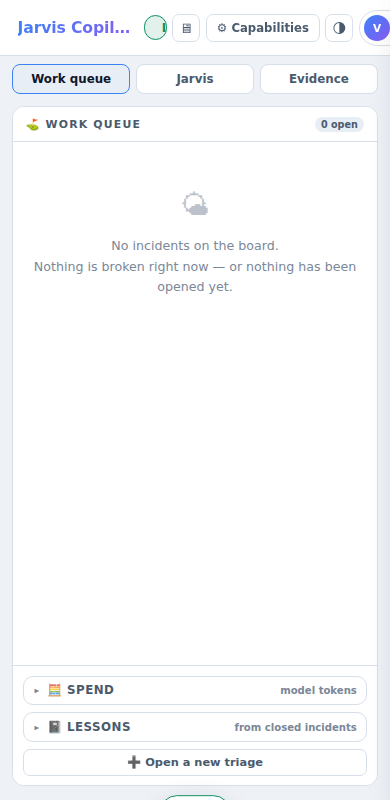
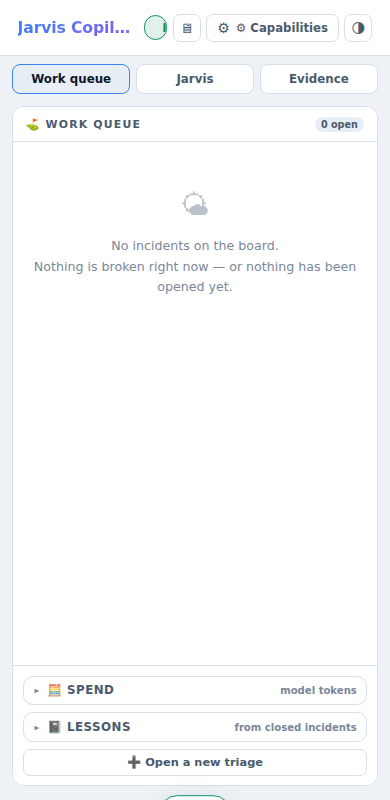
Polish P1: remove the canned @mention acknowledgement and four dead Jarvis simulators (Law 1); watcher agent_status shape; badge; phone-width header
- server.js: handleMention no longer posts a phrase-table 'On it — querying…'
  line on a random timer (it could land after the real answer); the agent's
  real read is the only response. generateMentionResponse deleted.
  simulateStandup / simulateSquadStatus / simulateWeeklyReport / showJarvisHelp
  deleted (no call sites since Class 1). STATUS.json watcher broadcasts the
  transparency-contract agent_status shape (agentId/status/note were undefined).
- desk.html: badge 'Cockpit' (no drifting wave number); at ≤760 the header's
  right group shrinks instead of widening the page, at ≤480 the name tag is the
  avatar and Capabilities its gear; the closed drawer is visibility:hidden.
- sources/polish.p1.test.js (17). Browser: no horizontal overflow at 390/480/
  760/1440 with the drawer closed and open; CW-12 regression 37/37; zero canned
  lines on the wire.

Claude-Session: https://claude.ai/code/session_014ZjE67CB2m32VWwJETiM5q

Changed region(s): [[0.5538, 0.0, 1.0, 0.0625], [0.4615, 0.0312, 0.4923, 0.0625]]

diff --git a/server.js b/server.js
@@ -1775,85 +1775,12 @@ function handleMention(fromAgentId, toAgentId, message) {
   // Log to activity
   appendToActivityLog(`[${timestamp}] [${fromAgent.name}] @mentioned ${toAgent.name}: ${message}\n`);
 
-  // Simulate target agent acknowledging (1-2s delay)
-  const responseDelay = 1000 + Math.random() * 1000;
-  setTimeout(() => {
-    const response = generateMentionResponse(toAgentId, fromAgentId, message);
-    broadcast('chat_message', {
-      type: 'incoming',
-      agent: toAgentId,
-      agentName: toAgent.name,
-      agentIcon: toAgent.icon,
-      text: response,
-      timestamp: new Date().toISOString()
-    });
-    // handleMention is only ever reached from an operator-typed command, so the
-    // responding agent answered the operator's @mention — not fromAgent, which is
-    // merely the operator's currently-focused chat. Name the true relationship.
-    appendToActivityLog(`[${new Date().toISOString()}] [${toAgent.name}] Responded to the operator's @mention\n`);
-  }, responseDelay);
-}
-
-// Generate contextual response based on agent specialty
-function generateMentionResponse(responderId, fromId, message) {
-  const responder = agents[responderId];
-  const from = agents[fromId];
-  const msg = message.toLowerCase();
-
-  // An acknowledgement may only promise what the agent can actually do, which
-  // is read its own live source (Catalyst Center, the ACI fabric, or vManage).
-  // Never name a tool, feed or capability that does not exist here — a
-  // fabricated capability is as dishonest as a fabricated reading.
-  const responses = {
-    'netops': [
-      `@${from.name} Roger that — reading live device inventory from Catalyst Center.`,
-      `@${from.name} On it — checking current device reachability on Catalyst Center.`,
-      `@${from.name} Acknowledged. Pulling the live device list and health score.`
-    ],
-    // No backend wired up — say so rather than promise a report we cannot make.
-    'sentinel': [
-      `@${from.name} I'm not connected to a CVE feed yet — no credentials, so I have nothing real to report.`
-    ],
-    'firewall-pro': [
-      `@${from.name} I'm not connected to a firewall source yet — no credentials, so I have nothing real to report.`
-    ],
-    'loadbal-pro': [
-      `@${from.name} I'm not connected to a load balancer — F5 has no Cisco DevNet sandbox. Nothing real to report.`
-    ],
-    'router-expert': [
-      `@${from.name} On it — querying the live ACI fabric / SD-WAN overlay.`
-    ],
-    'monitor-eye': [
-      `@${from.name} On it — reading the live health score and open issues from Catalyst Center.`,
-      `@${from.name} Acknowledged. Checking current health and SD-WAN alarm counts.`,
-      `@${from.name} Roger — pulling what my live sources report right now.`
-    ],
-    // No backup store, no compliance baseline and no config-diff engine exists —
-    // this agent can only read running software versions and reachability.
-    'config-keeper': [
-      `@${from.name} On it — reading the running software versions from Catalyst Center.`,
-      `@${from.name} Acknowledged. Checking what versions the devices actually report.`,
-      `@${from.name} Roger — I hold no backups or baselines, but I can read current state.`
-    ],
-    'incident-handler': [
-      `@${from.name} On it — reading open issues from Catalyst Center and faults from the ACI fabric.`,
-      `@${from.name} Acknowledged. Checking what is currently open on my live sources.`,
-      `@${from.name} Roger — pulling the current issue and fault list.`
-    ],
-    'doc-writer': [
-      `@${from.name} On it — reading the connected sandboxes so anything I write is backed by live data.`,
-      `@${from.name} Acknowledged. Checking what the live sources can actually confirm.`,
-      `@${from.name} Roger — gathering current readings from the connected sources.`
-    ],
-    'jarvis': [
-      `@${from.name} Understood. I'll coordinate the team on this.`,
-      `@${from.name} Copy. Triaging and assigning as needed.`,
-      `@${from.name} Acknowledged. Monitoring progress.`
-    ]
-  };
-
-  const agentResponses = responses[responderId] || [`@${from.name} Acknowledged. Working on it.`];
-  return agentResponses[Math.floor(Math.random() * agentResponses.length)];
+  // Polish P1 (Law 1, 2026-09-05): the canned "On it — querying…" acknowledgement
+  // that used to be posted here on a random 1–2 s timer is GONE. It was a
+  // deterministic phrase table pretending to be the agent, it could land AFTER
+  // the agent's real answer, and it said nothing the real answer did not. The
+  // @mention's only response is now the agent's real read (simulateAgentAction,
+  // scheduled by the caller) — or its honest "not connected".
 }
 
 // ============ AGENT NLU — per-agent intent detection ============
@@ -2151,174 +2078,11 @@ function jarvisCapabilityScreen(command) {
   return false;
 }
 
-// Jarvis: Daily standup — collect status from all agents
-function simulateStandup(agentId) {
-  const jarvis = agents[agentId];
-  updateAgentStatus(agentId, 'active', 'Running daily standup');
-  addTaskToBoard('inProgress', { title: 'Daily Standup', agent: 'Jarvis' });
-
-  const managedAgents = jarvis.manages || [];
-
-  setTimeout(() => {
-    broadcast('chat_message', {
-      type: 'incoming', agent: agentId, agentName: jarvis.name, agentIcon: jarvis.icon,
-      text: `📢 **DAILY STANDUP — ${new Date().toLocaleDateString()}**\nCollecting status from ${managedAgents.length} agents...`,
-      timestamp: new Date().toISOString()
-    });
-    appendToActivityLog(`[${new Date().toISOString()}] [Jarvis] Daily standup initiated\n`);
-  }, 500);
-
-  let delay = 1500;
-  const statusLines = [];
-
-  managedAgents.forEach((id) => {
-    const a = agents[id];
-    setTimeout(() => {
-      const statusIcon = a ? (a.status === 'active' ? '🟢' : a.status === 'idle' ? '🟡' : '🔴') : '⚫';
-      const name = a ? a.name : id;
-      const icon = a ? a.icon : '🤖';
-      const action = a ? a.lastAction : 'Not deployed';
-      const line = `${statusIcon} ${icon} **${name}** — ${action}`;
-      statusLines.push(line);
-
-      broadcast('chat_message', {
-        type: 'incoming', agent: agentId, agentName: jarvis.name, agentIcon: jarvis.icon,
-        text: `${statusIcon} ${icon} ${name}: ${action}`,
-        timestamp: new Date().toISOString()
-      });
-    }, delay);
-    delay += 800;
-  });
-
-  setTimeout(() => {
-    const activeCount = managedAgents.filter(id => agents[id]?.status === 'active').length;
-    const idleCount = managedAgents.filter(id => agents[id]?.status === 'idle').length;
-    const offlineCount = managedAgents.length - activeCount - idleCount;
-
-    broadcast('chat_message', {
-      type: 'incoming', agent: agentId, agentName: jarvis.name, agentIcon: jarvis.icon,
-      text: `📊 **Standup Summary**\n🟢 Active: ${activeCount} | 🟡 Idle: ${idleCount} | 🔴 Offline: ${offlineCount}\n✅ Standup complete. All agents accounted for.`,
-      timestamp: new Date().toISOString()
-    });
-
-    appendToActivityLog(`[${new Date().toISOString()}] [Jarvis] Standup complete — Active: ${activeCount}, Idle: ${idleCount}, Offline: ${offlineCount}\n`);
-    updateAgentStatus(agentId, 'active', 'Standup complete — monitoring squad');
-    moveTaskOnBoard('Daily Standup', 'inProgress', 'done');
-  }, delay + 500);
-}
-
-// Jarvis: Squad status / roll call
-function simulateSquadStatus(agentId) {
-  const jarvis = agents[agentId];
-  updateAgentStatus(agentId, 'active', 'Checking squad status');
-
-  setTimeout(() => {
-    const managedAgents = jarvis.manages || [];
-    const lines = managedAgents.map(id => {
-      const a = agents[id];
-      if (!a) return `⚫ 🤖 ${id} — Not deployed`;
-      const statusIcon = a.status === 'active' ? '🟢' : a.status === 'idle' ? '🟡' : '🔴';
-      return `${statusIcon} ${a.icon} ${a.name} — ${a.lastAction}`;
-    });
-
-    broadcast('chat_message', {
-      type: 'incoming', agent: agentId, agentName: jarvis.name, agentIcon: jarvis.icon,
-      text: `🎖 **Squad Status Report**\n━━━━━━━━━━━━━━━━━━━━\n${lines.join('\n')}\n━━━━━━━━━━━━━━━━━━━━\nTotal: ${managedAgents.length} agents`,
-      timestamp: new Date().toISOString()
-    });
-    updateAgentStatus(agentId, 'active', 'Monitoring squad');
-  }, 1000);
-}
-
-// Jarvis: Weekly summary report
-function simulateWeeklyReport(agentId) {
-  const jarvis = agents[agentId];
-  updateAgentStatus(agentId, 'active', 'Generating weekly report');
-  addTaskToBoard('inProgress', { title: 'Weekly Summary Report', agent: 'Jarvis' });
-
-  const steps = [
-    { delay: 500, msg: '📊 Generating weekly squad report...' },
-    { delay: 1500, msg: '📁 Scanning task history...' },
-    { delay: 2500, msg: '📈 Analyzing agent performance...' },
-  ];
-
-  steps.forEach(step => {
-    setTimeout(() => {
-      broadcast('chat_message', {
-        type: 'incoming', agent: agentId, agentName: jarvis.name, agentIcon: jarvis.icon,
-        text: step.msg,
-        timestamp: new Date().toISOString()
-      });
-    }, step.delay);
-  });
-
-  setTimeout(() => {
-    const tasks = getTasks();
-    const doneCount = (tasks.done || []).length;
-    const inProgressCount = (tasks.inProgress || []).length;
-    const inboxCount = (tasks.inbox || []).length;
-    const managedAgents = jarvis.manages || [];
-    const activeCount = managedAgents.filter(id => agents[id]?.status === 'active').length;
-
-    const reportContent = `# Weekly Squad Report
-**Generated:** ${new Date().toISOString()}
-**Squad Lead:** Jarvis 🎖
-
-## Squad Overview
-- Total Agents: ${managedAgents.length}
-- Active: ${activeCount}
-- Idle: ${managedAgents.length - activeCount}
-
-## Task Summary
-- Completed: ${doneCount}
-- In Progress: ${inProgressCount}
-- Inbox: ${inboxCount}
-
-## Agent Status
-${managedAgents.map(id => {
-  const a = agents[id];
-  if (!a) return `| ${id} | Not Deployed | - |`;
-  return `| ${a.icon} ${a.name} | ${a.status} | ${a.lastAction} |`;
-}).join('\n')}
-
-## Recommendations
-- ${inboxCount > 0 ? `${inboxCount} tasks pending triage in INBOX` : 'All tasks triaged'}
-- ${activeCount === 0 ? 'No agents currently active — consider scheduling tasks' : `${activeCount} agents actively working`}
-
----
-*Report generated by Jarvis, Network Squad Lead*
-`;
-
-    const reportName = `weekly-report-${Date.now()}.md`;
-    const reportPath = path.join(SQUAD_ROOT, 'agents', 'jarvis', reportName);
-    // Runs inside a timer — a raw write here would throw where nothing can
-    // catch it and would silently abandon the rest of the report.
-    safeWrite(reportPath, reportContent, `weekly report ${reportName}`);
-
-    broadcast('chat_message', {
-      type: 'incoming', agent: agentId, agentName: jarvis.name, agentIcon: jarvis.icon,
-      text: `✅ **Weekly Report Complete**\n📋 Tasks — Done: ${doneCount} | Active: ${inProgressCount} | Inbox: ${inboxCount}\n👥 Squad — ${managedAgents.length} agents, ${activeCount} active\n📁 Report saved: ${reportName}`,
-      timestamp: new Date().toISOString()
-    });
-
-    appendToActivityLog(`[${new Date().toISOString()}] [Jarvis] Weekly report generated: ${reportName}\n`);
-    updateAgentStatus(agentId, 'active', `Weekly report: ${reportName}`);
-    moveTaskOnBoard('Weekly Summary Report', 'inProgress', 'done');
-  }, 4000);
-}
-
-// Jarvis help
-function showJarvisHelp(agentId) {
-  const jarvis = agents[agentId];
-  setTimeout(() => {
-    broadcast('chat_message', {
-      type: 'incoming', agent: agentId, agentName: jarvis.name, agentIcon: jarvis.icon,
-      text: `🎖 **Jarvis — Squad Lead (Natural Language)**\n━━━━━━━━━━━━━━━━━━━━\nJust talk to me naturally. I understand intent, not just commands.\n\n📢 **Standup** — "check in with the team", "morning briefing", "how's everyone doing?"\n👥 **Squad status** — "who's online?", "show me all agents", "roll call"\n🔍 **Triage/assign** — "we need someone to look at the BGP issue", "assign the firewall audit"\n📊 **Reports** — "give me a summary of the week", "what have we completed?"\n🚨 **Escalate** — "the router is down", "we have a critical outage", "BGP is flapping"\n💬 **Anything else** — just describe the situation and I'll figure out the right action\n━━━━━━━━━━━━━━━━━━━━\nManaging ${(jarvis.manages || []).length} agents`,
-      timestamp: new Date().toISOString()
-    });
-    updateAgentStatus(agentId, 'active', 'Help displayed');
-  }, 500);
-}
+// Polish P1 (2026-09-05): simulateStandup / simulateSquadStatus / simulateWeeklyReport /
+// showJarvisHelp were removed here. They had no call sites since the Class 1
+// fix (2026-08-18) took the phrase-table front door away — dead deterministic
+// answering code, the exact class Law 1 forbids. Standup / roll-call / report
+// come back, if ever, as planner-invoked functions built on real reads.
 
 // Update agent status and broadcast
 function updateAgentStatus(agentId, status, lastAction) {
@@ -3668,7 +3432,9 @@ function setupFileWatcher() {
       const agentId = AGENT_IDS.find(id => filePath.includes(path.sep + id + path.sep) || filePath.includes('/' + id + '/'));
       if (agentId && agents[agentId]) {
         loadAgentStatus(agentId);
-        broadcast('agent_status', agents[agentId]);
+        // Same shape as updateAgentStatus (transparency contract): a client
+        // reading `agentId` / `status` / `note` used to get undefined here.
+        broadcast('agent_status', { ...agents[agentId], agentId, status: agents[agentId].status, note: agents[agentId].lastAction || null });
       }
     } else if (filename === 'ALERTS.md') {
       broadcast('alerts_updated', { timestamp: new Date().toISOString() });

diff --git a/sources/polish.p1.test.js b/sources/polish.p1.test.js
@@ -1,0 +1,62 @@
+// polish.p1.test.js — Polish wave P1 (2026-09-05): Law-1 leftovers and small
+// honesty/UX fixes found by the CW-12 review.
+//
+// Plain words, what this pins:
+//   1. The canned "@Name On it — querying…" acknowledgement is GONE. It was a
+//      phrase table pretending to be the agent, posted on a random timer, and it
+//      could land after the real answer. The only response to an @mention is
+//      the agent's real read (or its honest "not connected").
+//   2. The four dead Jarvis simulators (standup / squad status / weekly report /
+//      the canned help card) are gone — they had no call sites and were
+//      deterministic answering code, the class Law 1 forbids.
+//   3. The STATUS.json file-watcher broadcasts the same agent_status shape as
+//      updateAgentStatus (agentId / status / note were undefined before).
+//   4. The desk header badge no longer claims a wave number that drifts.
+//   5. At phone width the header can never make the page wider than the screen,
+//      and the closed capabilities drawer is hidden, not just off-canvas.
+
+const fs = require('fs');
+const path = require('path');
+
+let passed = 0, failed = 0;
+function ok(name, cond) {
+  if (cond) { passed++; console.log(`  ok   ${name}`); }
+  else { failed++; console.log(`  FAIL ${name}`); }
+}
+const read = (f) => fs.readFileSync(path.join(__dirname, '..', f), 'utf8');
+const server = read('server.js');
+const desk = read('public/desk.html');
+const pkg = JSON.parse(read('package.json'));
+
+console.log('\nPolish P1 — Law-1 leftovers + small honesty fixes:\n');
+
+// 1. the canned @mention acknowledgement
+ok('generateMentionResponse is gone (definition and every call)', !/generateMentionResponse/.test(server));
+ok('no canned "@Name On it / Roger that / Acknowledged" agent lines remain (code, not comments)', !/`@\$\{from\.name\} (On it|Roger that|Acknowledged)/.test(server) && !/'sentinel': \[\s*`@/.test(server));
+ok('handleMention no longer posts on a random timer', !/responseDelay/.test(server) && !/Responded to the operator's @mention/.test(server));
+ok('…but still records the mention (badge + log) and hands the ask to the real agent',
+  /broadcast\('mention', \{/.test(server) && /@mentioned \$\{toAgent\.name\}/.test(server) && /pickedUp\(targetId\);\s*\n\s*settle\(simulateAgentAction\(targetId, mentionMessage\), targetId\)/.test(server));
+
+// 2. dead simulators
+['simulateStandup', 'simulateSquadStatus', 'simulateWeeklyReport', 'showJarvisHelp'].forEach((fn) => {
+  ok(`${fn} is gone`, !new RegExp(`function ${fn}\\(|${fn}\\(`).test(server));
+});
+ok('Jarvis still has exactly one front door: jarvis.ask via simulateJarvisAction', /return jarvis\.ask\(command,/.test(server) && (server.match(/function simulateJarvisAction/g) || []).length === 1);
+ok('the honest help card for engineer agents (showAgentHelp) is untouched', /function showAgentHelp\(agentId\)/.test(server) && /Capabilities\*\*/.test(server));
+
+// 3. watcher shape
+ok('the STATUS.json watcher broadcasts the transparency-contract shape', /broadcast\('agent_status', \{ \.\.\.agents\[agentId\], agentId, status: agents\[agentId\]\.status, note: agents\[agentId\]\.lastAction \|\| null \}\)/.test(server));
+ok('…and no bare agents[agentId] agent_status broadcast remains', !/broadcast\('agent_status', agents\[agentId\]\)/.test(server));
+
+// 4. badge
+ok('the desk badge says "Cockpit" with no wave number', /<span class="dirtag"[^>]*>Cockpit<\/span>/.test(desk) && !/Cockpit · CW-\d/.test(desk));
+
+// 5. phone width
+ok('the right-hand header group shrinks instead of widening the page', /\.top-right\{flex:0 1 auto;overflow:hidden;flex-wrap:nowrap\}/.test(desk));
+ok('at ≤480px the name tag collapses to the avatar and Capabilities to its gear', /@media \(max-width:480px\)\{[\s\S]*?\.whotag span\{display:none\}[\s\S]*?\.capbtn::before\{content:'⚙'/.test(desk));
+ok('the closed drawer is hidden, not just translated off-canvas', /\.cap-drawer:not\(\.on\)\{visibility:hidden/.test(desk) && /\.cap-drawer\.on\{visibility:visible\}/.test(desk));
+
+ok('this suite is in npm test', /polish\.p1\.test\.js/.test(pkg.scripts.test));
+
+console.log(`\n${passed} passed, ${failed} failed\n`);
+process.exit(failed ? 1 : 0);

diff --git a/public/desk.html b/public/desk.html
@@ -701,6 +701,19 @@ pre.term{
   /* the live/not-connected wording is long; the dot still carries the state */
   .top-right .chip{max-width:92px;overflow:hidden;text-overflow:ellipsis;white-space:nowrap}
   .whotag span{max-width:60px;overflow:hidden;text-overflow:ellipsis;white-space:nowrap}
+  /* Polish P1: the right-hand group must never push the page wider than the
+     phone. It shrinks (and clips its own contents) before the page scrolls. */
+  .top-right{flex:0 1 auto;overflow:hidden;flex-wrap:nowrap}
+  .top-right .iconbtn,.top-right .capbtn{flex-shrink:0}
+}
+@media (max-width:480px){
+  /* phone: the name tag becomes the avatar alone, the Capabilities button its
+     gear — every control still there, nothing wider than the screen. */
+  .whotag span{display:none}
+  .whotag{padding:.2rem}
+  .top-right .chip{max-width:70px}
+  .capbtn{font-size:0;padding:.3rem .45rem}
+  .capbtn::before{content:'⚙';font-size:.9rem}
 }
 
 /* ============================================================
@@ -764,6 +777,11 @@ pre.term{
   font-size:.68rem;color:var(--ink3);line-height:1.55
 }
 @media (max-width:760px){ .cap-drawer{width:100vw} }
+/* Polish P1: while closed the drawer is off-canvas AND hidden — it cannot be
+   tabbed into, read by a screen reader, or counted as page width. The delay
+   keeps the slide-out animation; the slide-in shows it at once. */
+.cap-drawer:not(.on){visibility:hidden;transition:transform .24s cubic-bezier(.4,0,.2,1),visibility 0s linear .24s}
+.cap-drawer.on{visibility:visible}
 /* CW-9 on a phone: the conversation keeps the room, the session pane sits under
    it as a shorter strip the operator can scroll — never the other way round. */
 @media (max-width:760px){
@@ -798,7 +816,7 @@ pre.term{
 <header class="top">
   <div class="brand">
     <h1>Jarvis Copilot Desk</h1>
-    <span class="dirtag">Cockpit · CW-3</span>
+    <span class="dirtag" title="Direction C — the cockpit layout Vikas approved at Gate 2">Cockpit</span>
   </div>
   <div class="top-right">
     <span class="chip wait" id="connChip"><span class="dot"></span>Connecting…</span>
